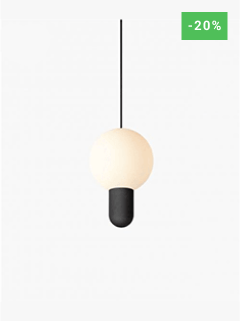
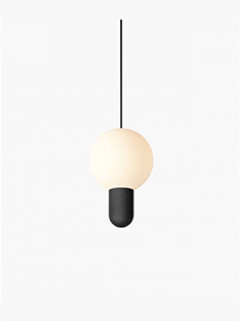
aboutUs section done and some mod in home

Changed region(s): [[0.7292, 0.0312, 0.9625, 0.1246]]

diff --git a/src/app/core/header/db/products.db.ts b/src/app/core/header/db/products.db.ts
@@ -5,13 +5,13 @@ export const products_db:any[]=[
     rating: '../../../assets/images/brand/png/star.png',
     store: '../../../assets/images/brand/png/store.png'
     },
-    { image: '../../../assets/images/brand/png/Frame 1000008717.png', name: 'Bollard Lamp', nPrice: '$7.00', oPrice: '$12.00', rating: '../../../assets/images/brand/png/star.png', store: '../../../assets/images/brand/png/store.png' },
-    { image: '../../../assets/images/brand/png/Frame 1000008718.png',type:'Run, Dress', name: 'Bollard Lamp', nPrice: '$7.00', oPrice: '$12.00', rating: '../../../assets/images/brand/png/star.png', store: '../../../assets/images/brand/png/store.png' },
-    { image: '../../../assets/images/brand/png/Frame 1000008719.png',type:'Run, Dress', name: 'Bollard Lamp', nPrice: '$7.00', oPrice: '$12.00', rating: '../../../assets/images/brand/png/star.png', store: '../../../assets/images/brand/png/store.png' },
-    { image: '../../../assets/images/brand/png/Frame 1000008720.png',type:'Run, Dress', name: 'Bollard Lamp', nPrice: '$7.00', oPrice: '$12.00', rating: '../../../assets/images/brand/png/star.png', store: '../../../assets/images/brand/png/store.png' },
-    { image: '../../../assets/images/brand/png/Frame 1000008721.png',type:'Run, Dress', name: 'Bollard Lamp', nPrice: '$7.00', oPrice: '$12.00', rating: '../../../assets/images/brand/png/star.png', store: '../../../assets/images/brand/png/store.png' },
-    { image: '../../../assets/images/brand/png/Frame 1000008722.png',type:'Run, Dress', name: 'Bollard Lamp', nPrice: '$7.00', oPrice: '$12.00', rating: '../../../assets/images/brand/png/star.png', store: '../../../assets/images/brand/png/store.png' },
-    { image: '../../../assets/images/brand/png/Frame 1000008723.png',type:'Run, Dress', name: 'Bollard Lamp', nPrice: '$7.00', oPrice: '$12.00', rating: '../../../assets/images/brand/png/star.png', store: '../../../assets/images/brand/png/store.png' },
+    { image: '../../../assets/images/brand/png/Frame 1000008717.png', name: 'wall lamp', nPrice: '$7.00', oPrice: '$12.00', rating: '../../../assets/images/brand/png/star.png', store: '../../../assets/images/brand/png/store.png' },
+    { image: '../../../assets/images/brand/png/Frame 1000008718.png',discount:'-20%',type:'Run, Dress', name: 'Diesel V2 Hoodie', nPrice: '$7.00', oPrice: '$12.00', rating: '../../../assets/images/brand/png/star.png', store: '../../../assets/images/brand/png/store.png' },
+    { image: '../../../assets/images/brand/png/Frame 1000008719.png',discount:'-20%',type:'Run, Dress', name: 'Diesel V2 Hoodie', nPrice: '$7.00', oPrice: '$12.00', rating: '../../../assets/images/brand/png/star.png', store: '../../../assets/images/brand/png/store.png' },
+    { image: '../../../assets/images/brand/png/Frame 1000008720.png',type:'Run, Dress', name: 'Grey Winter Hoodie', nPrice: '$7.00', oPrice: '$12.00', rating: '../../../assets/images/brand/png/star.png', store: '../../../assets/images/brand/png/store.png' },
+    { image: '../../../assets/images/brand/png/Frame 1000008721.png',discount:'-20%',type:'Run, Dress', name: 'Round neck T-shirt', nPrice: '$7.00', oPrice: '$12.00', rating: '../../../assets/images/brand/png/star.png', store: '../../../assets/images/brand/png/store.png' },
+    { image: '../../../assets/images/brand/png/Frame 1000008722.png',type:'Run, Dress', name: 'Diesel V1 Hoodie', nPrice: '$7.00', oPrice: '$12.00', rating: '../../../assets/images/brand/png/star.png', store: '../../../assets/images/brand/png/store.png' },
+    { image: '../../../assets/images/brand/png/Frame 1000008723.png',type:'Run, Dress', name: 'Diesel V1 Hoodie', nPrice: '$7.00', oPrice: '$12.00', rating: '../../../assets/images/brand/png/star.png', store: '../../../assets/images/brand/png/store.png' },
 ]
 export const locations_db:any []=[
     {

diff --git a/src/app/pages/about-us/form-contact-section/form-contact-section.component.scss b/src/app/pages/about-us/form-contact-section/form-contact-section.component.scss
@@ -7,10 +7,26 @@
         .contact-info{
             display: flex;
             flex-direction: column;
-            gap: 70px;
-            padding: 40px 30px;
+            gap: 80px;
+            padding: 30px;
             background-color: rgba(247, 247, 247, 0.6);
             height: fit-content;
+            position: relative;
+            .bg-blue{
+                width: 148px;
+                height: 148px;
+                position: absolute;
+                right: 0;
+                bottom: 0;
+            }
+            .bg-ash{
+                width: 148px;
+                height: 148px;
+                position: absolute;
+                right: 30px;
+                bottom:30px;
+                z-index: 9999;
+            }
             .head-info{
                 display: flex;
                 flex-direction: column;
@@ -52,7 +68,7 @@
                 display: flex;
                 align-items: center;
                 gap: 10px;
-                margin-top: 50px;
+                margin-top: 55px;
                 img{
                     height: 30px;
                     width: 30px;
@@ -121,7 +137,7 @@
                             background-color: #000000;
                         }
                         label {
-                            margin-top: 12px;
+                            margin-top: 8px;
                             cursor: pointer;
                             font-family: Poppins;
                             font-size: 12px;
@@ -143,6 +159,26 @@
                     text-align: center;
                     }
             }
+        }
+    }
+}
+@media (max-width: 799px) {
+    .container{
+        .f-C-container{
+            margin: 25px;
+            padding: 10px 30px;
+            grid-template-columns: 1fr;
+            gap: 30px;
+        }
+    }
+}
+@media (max-width: 599px) {
+    .container{
+        .f-C-container{
+            margin: 15px;
+            padding: 10px 10px;
+            grid-template-columns: 1fr;
+            gap: 30px;
         }
     }
 }

diff --git a/src/app/shared/components/card/card.component.scss b/src/app/shared/components/card/card.component.scss
@@ -8,10 +8,26 @@
     max-height: 491px;
     .card-img{
         height: 321px;
+        position: relative;
         img{
             width: 100%;
             height: 100%;
             object-fit: cover;
+        }
+        .dis-count{
+            position: absolute;
+            text-align: center;
+            background-color: rgba(79, 191, 89, 1);
+            padding: 3px 6px;
+            text-align: center;
+            right: 0;
+            top: 12px;
+            h4{
+                color: rgba(255, 255, 255, 1);
+                font-family: roboto;
+                font-weight: 600;
+                font-size: 13px;
+            }
         }
     }
     .card-footer{
@@ -34,6 +50,7 @@
             display: flex;
             flex-direction: row;
             justify-content: space-between;
+            margin-top: 10px;
             .leftInfo{
                 display: flex;
                 flex-direction: column;

diff --git a/src/app/pages/home/card-section/card-section.component.scss b/src/app/pages/home/card-section/card-section.component.scss
@@ -5,7 +5,7 @@
         flex-direction: column;
         justify-content: center;
         align-items: center;
-        padding: 78px 100px;
+        padding: 78px 80px;
         gap: 64px;
         .cards-header{
             display: flex;
@@ -48,9 +48,9 @@
 }
 @media (max-width: 799px) {
     .sub-container{
-        margin: 40px;
+        margin: 30px;
         .card-section{
-            padding: 30px;
+            padding: 30px ;
             .cards{
                 grid-template-columns: repeat(3,1fr);
             }

diff --git a/src/app/pages/about-us/form-contact-section/form-contact-section.component.html b/src/app/pages/about-us/form-contact-section/form-contact-section.component.html
@@ -1,6 +1,8 @@
 <div class="container">
   <div class="f-C-container">
     <div class="contact-info">
+      <img class="bg-blue" src="../../../../assets/images/brand/png/blu-qtr-circle.png" alt="">
+      <img class="bg-ash" src="../../../../assets/images/brand/png/ash-circle.png" alt="">
       <div class="head-info">
         <h4>Contact Information</h4>
         <p>Say something to start a live chat!</p>

diff --git a/src/app/shared/components/card/card.component.html b/src/app/shared/components/card/card.component.html
@@ -1,6 +1,9 @@
 <div class="card">
     <div class="card-img">
         <img [src]="cardData?.image" alt="">
+        <div class="dis-count" *ngIf="cardData?.discount">
+            <h4>{{cardData?.discount}}</h4>
+        </div>
     </div>
     <div class="card-footer">
         <p class="pType">{{cardData?.type}}</p>

diff --git a/src/app/pages/about-us/query-section/query-section.component.scss b/src/app/pages/about-us/query-section/query-section.component.scss
@@ -58,7 +58,7 @@
     .container{
         .query-container{
             padding: 20px 20px;
-            margin: 20px 25px;
+            margin: 20px 40px;
         }
     } 
 }
